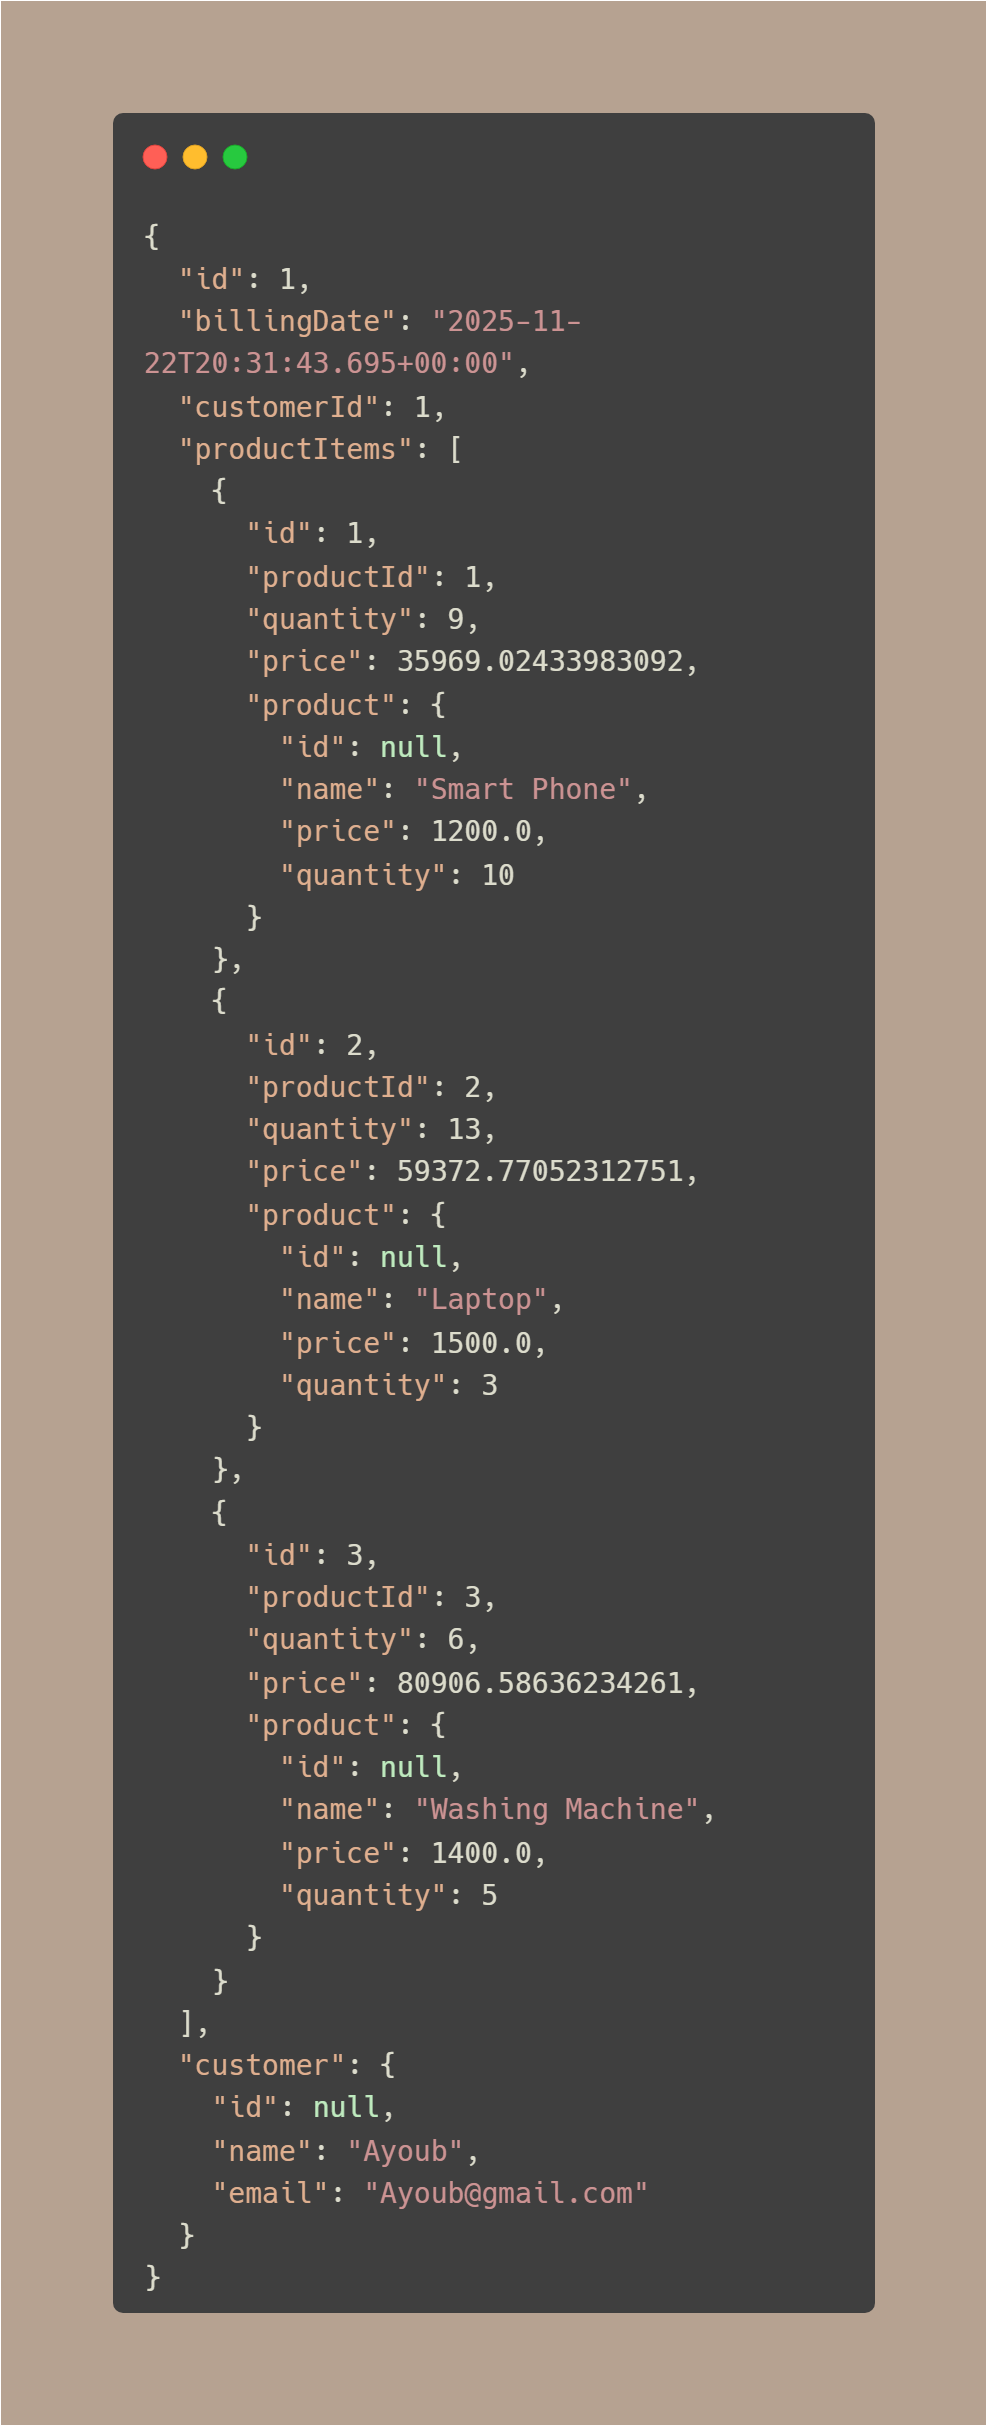
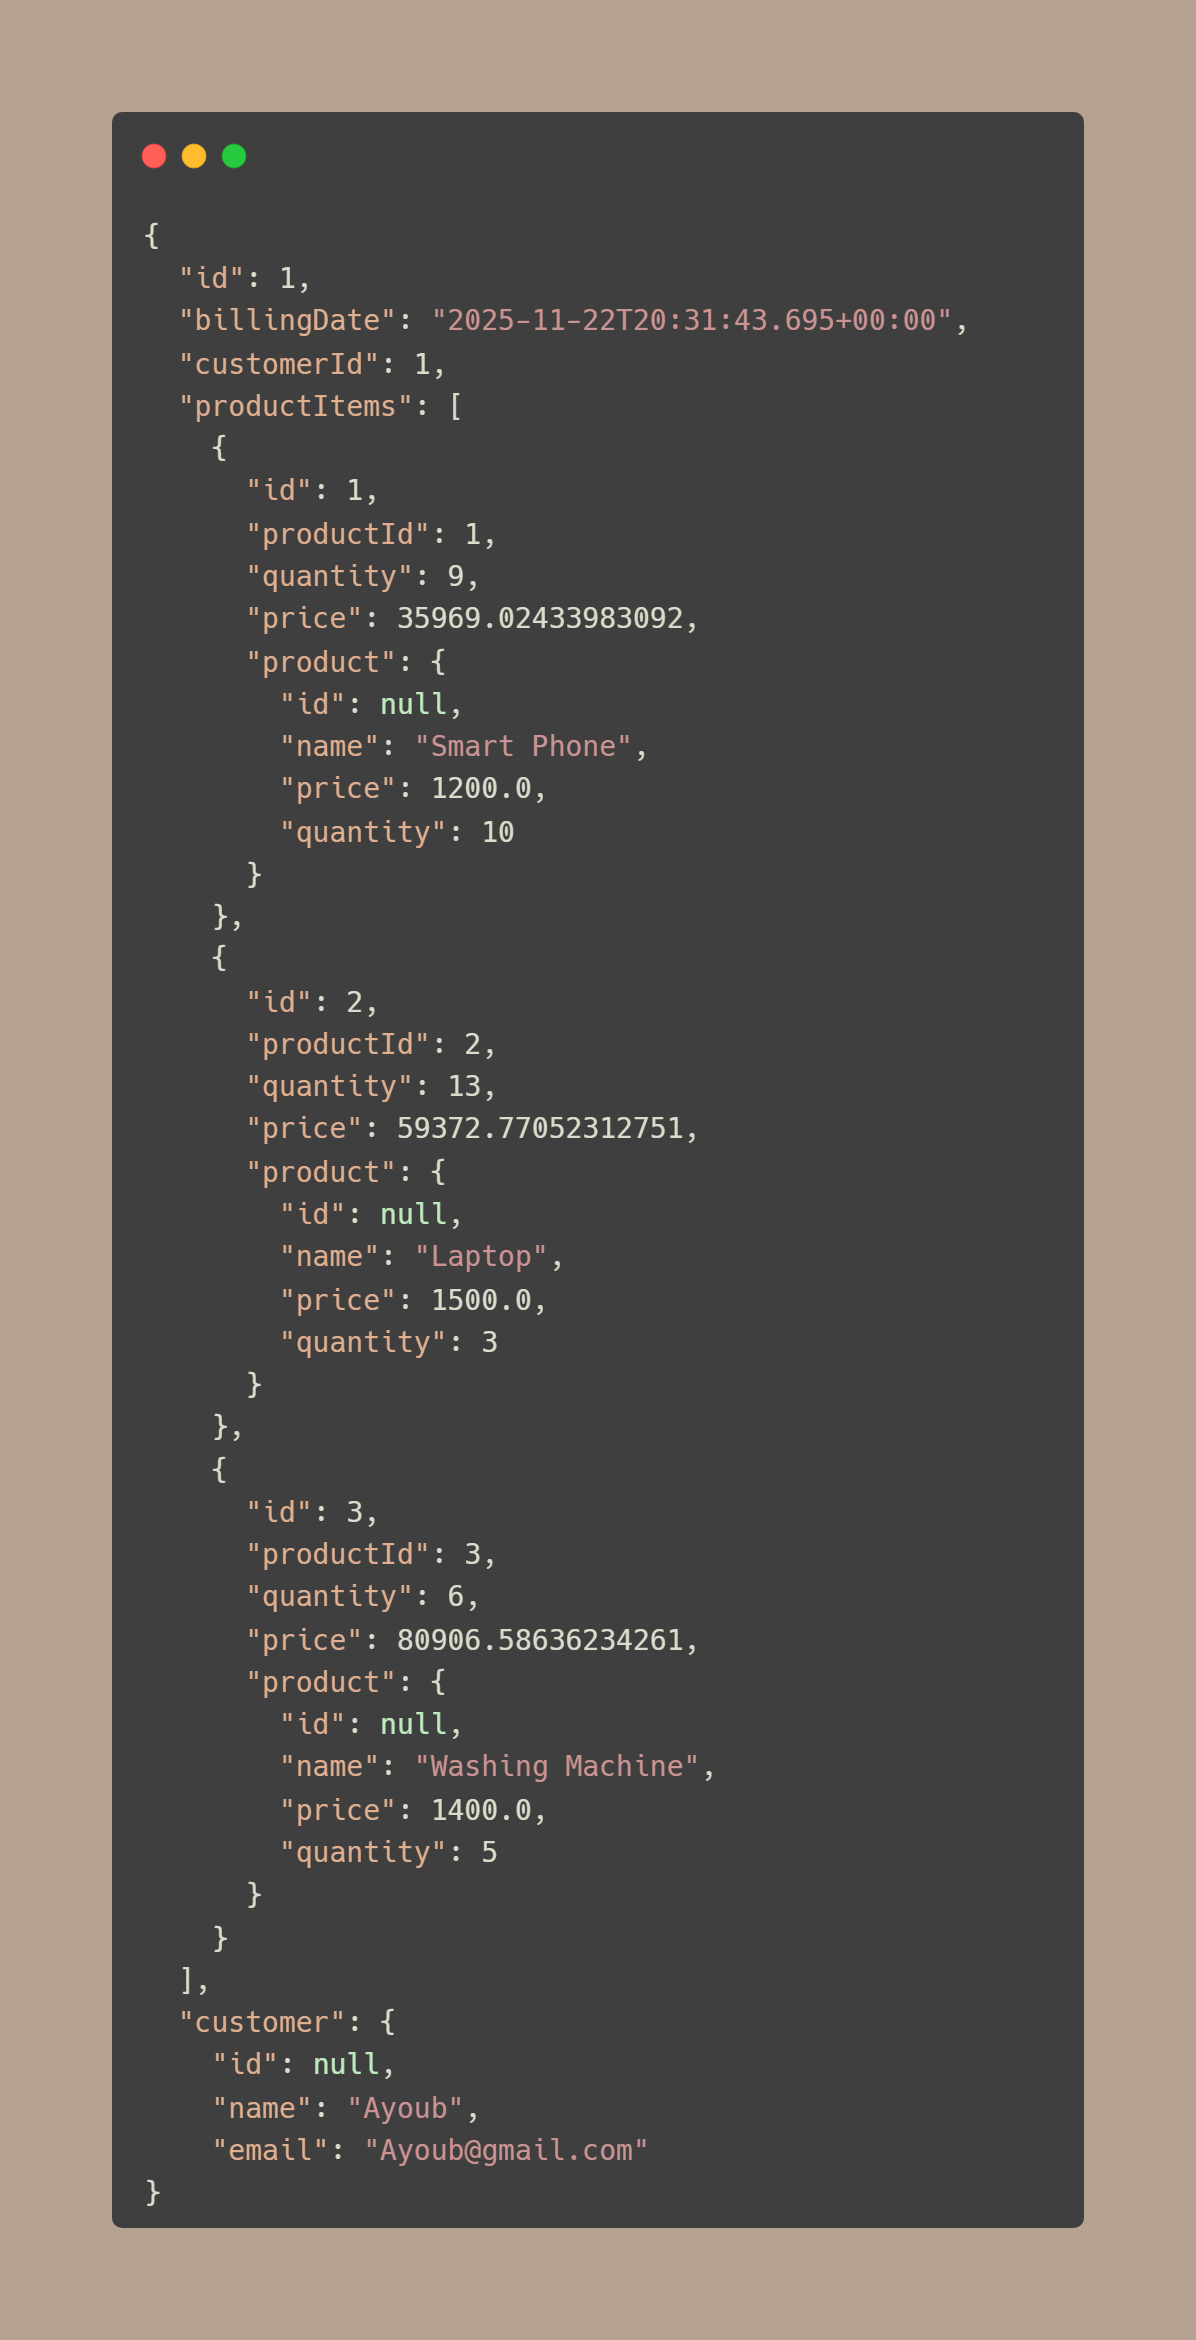
Update README File

diff --git a/README.md b/README.md
@@ -147,7 +147,6 @@ ProductItem {
     Product product (transient)
 }
 ```
-![bills_endpoint](images/bills_endpoint.png)
 
 **Key Features:**
 - Feign clients for inter-service communication
@@ -359,32 +358,8 @@ curl http://localhost:8080/billing-service/API/bills/1 | json_pp
 ```
 
 **Expected Response:**
-```json
-{
-  "id": 1,
-  "billingDate": "2024-12-03T10:30:00.000+00:00",
-  "customerId": 1,
-  "customer": {
-    "id": 1,
-    "name": "Ayoub",
-    "email": "Ayoub@gmail.com"
-  },
-  "productItems": [
-    {
-      "id": 1,
-      "productId": 1,
-      "quantity": 15,
-      "price": 450000.50,
-      "product": {
-        "id": 1,
-        "name": "Smart Phone",
-        "price": 1200.0,
-        "quantity": 10
-      }
-    }
-  ]
-}
-```
+
+![bills_endpoint](images/bills_endpoint.png)
 
 ### Test Circuit Breaker
 
